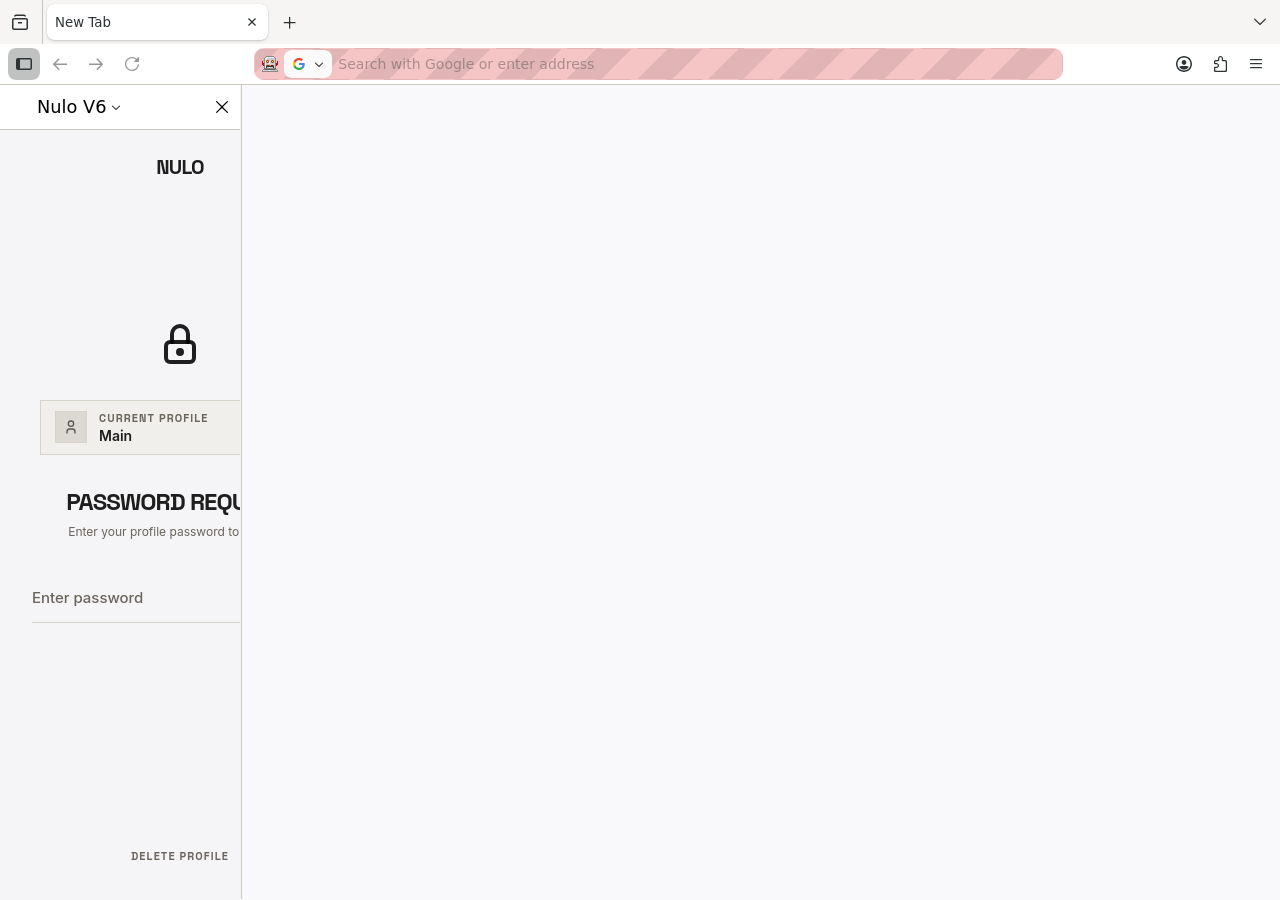
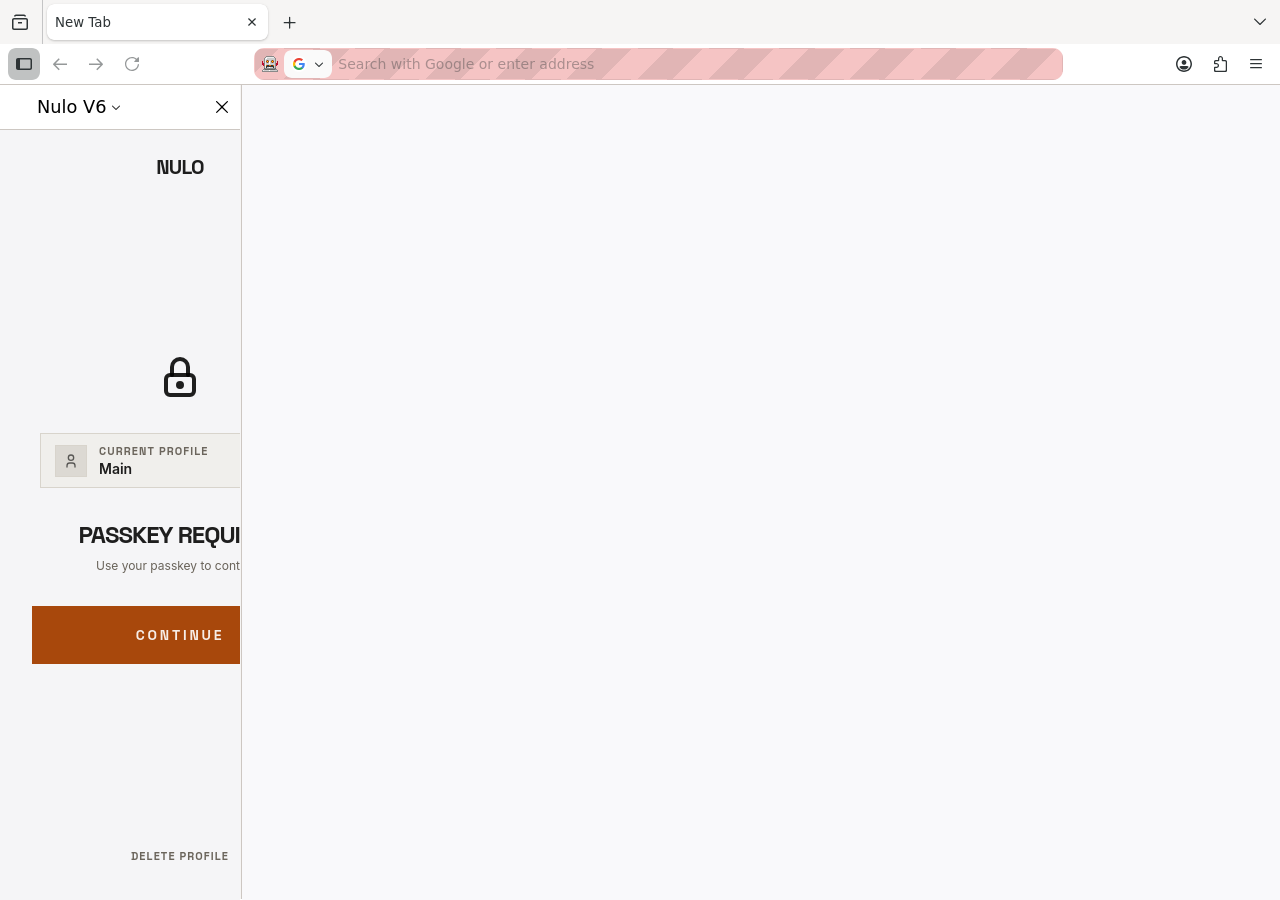
test(e2e): drive both firefox sidebars; report the real failure
A Firefox launch comes up with either the default or the revamped
sidebar, so `openSidebar` takes the kind and sets it before opening,
once the controller's rebuild has run, and the scenario runs on both.
`chromeActions` keeps the actions' own error when releasing them fails
too, `openSidebar` reports a refused open, and `clickInSidebar` refuses
a zoomed sidebar whose coordinates would miss.

Changed region(s): [[0.0, 0.3422, 0.1875, 0.7467]]

diff --git a/apps/extension/tests/e2e/fixtures/browser/firefox-sidebar.ts b/apps/extension/tests/e2e/fixtures/browser/firefox-sidebar.ts
@@ -25,23 +25,39 @@ const LOCATE_SIDEBAR = `
 	const origin = "moz-extension://" + WebExtensionPolicy.getByID(addonId).mozExtensionHostname + "/";
 	return host?.currentURI?.spec.startsWith(origin) ? host : null;`
 
-/** Opens the add-on's sidebar, as `sidebarAction.open()` does, and resolves once its document is loaded. */
-export async function openSidebar(browser: Browser): Promise<void> {
+/** Which sidebar Firefox draws: the default one, or the revamped one with its launcher, which some
+ *  profiles get on their own. Each lays the page out at its own width. */
+export type SidebarKind = "default" | "revamped"
+
+/**
+ * Opens the add-on's sidebar, as `sidebarAction.open()` does, in the sidebar `kind` names, and resolves
+ * once the add-on's page is the sidebar's document. The kind is set every time: a launch may come up
+ * with either, and a spec that does not choose would drive whichever it got.
+ */
+export async function openSidebar(browser: Browser, kind: SidebarKind): Promise<void> {
 	const { session, addonId } = actionPopupContext(browser)
 	const opened = await session.chromeScript<string>(
 		`
-		const [addonId, done] = arguments;
+		const [addonId, revamped, done] = arguments;
 		const sidebar = () => { ${LOCATE_SIDEBAR} };
+		const controller = window.SidebarController;
 		const { extension } = WebExtensionPolicy.getByID(addonId);
-		extension.apiManager.global.sidebarActionFor(extension).open(window);
 		const started = Date.now();
-		(function poll() {
+		const poll = () => {
 			if (sidebar()?.browsingContext?.currentWindowGlobal) return done("open");
 			if (Date.now() - started > 15000) return done("the sidebar never opened");
 			window.setTimeout(poll, 100);
-		})();
+		};
+		const open = () => {
+			if (controller.sidebarRevampEnabled !== revamped) return done("the sidebar kind did not switch");
+			Promise.resolve(extension.apiManager.global.sidebarActionFor(extension).open(window)).then(poll, (err) => done("open failed: " + err));
+		};
+		// The pref's observer rebuilds the sidebar in a continuation queued behind the controller's
+		// initialisation, so the open waits for that and one task more, after which the rebuild is done.
+		Services.prefs.setBoolPref("sidebar.revamp", revamped);
+		controller.promiseInitialized.then(() => window.setTimeout(open, 0));
 		`,
-		[addonId],
+		[addonId, kind === "revamped"],
 	)
 	if (opened !== "open") throw new Error(`openSidebar: ${opened}`)
 }
@@ -58,24 +74,29 @@ export async function evaluateInSidebar<T>(browser: Browser, body: string): Prom
 
 /**
  * Clicks the centre of the element with `testid` with a real pointer, which also gives the sidebar
- * focus. An element outside the sidebar's view is refused: no person could click it there.
+ * focus. An element outside the sidebar's view is refused: no person could click it there. The
+ * sidebar's coordinates are mapped onto its window's, which holds only while both share one scale.
  */
 export async function clickInSidebar(browser: Browser, testid: string): Promise<void> {
 	const { session } = actionPopupContext(browser)
-	const target = await evaluateInSidebar<{ x: number; y: number; inView: boolean } | null>(
+	const target = await evaluateInSidebar<{ x: number; y: number; scale: number; inView: boolean } | null>(
 		browser,
 		`const el = content.document.querySelector(${JSON.stringify(`[data-testid="${testid}"]`)});
 		if (!el) return null;
 		const rect = el.getBoundingClientRect();
 		const x = rect.left + rect.width / 2;
 		const y = rect.top + rect.height / 2;
-		return { x: content.mozInnerScreenX + x, y: content.mozInnerScreenY + y, inView: x >= 0 && y >= 0 && x < content.innerWidth && y < content.innerHeight };`,
+		return { x: content.mozInnerScreenX + x, y: content.mozInnerScreenY + y, scale: content.devicePixelRatio, inView: x >= 0 && y >= 0 && x < content.innerWidth && y < content.innerHeight };`,
 	)
 	if (!target) throw new Error(`clickInSidebar: no ${testid} in the sidebar`)
 	if (!target.inView) throw new Error(`clickInSidebar: ${testid} is outside the sidebar's view`)
-	const origin = await session.chromeScript<{ x: number; y: number }>(
-		`const [done] = arguments; done({ x: window.mozInnerScreenX, y: window.mozInnerScreenY });`,
+	const origin = await session.chromeScript<{ x: number; y: number; scale: number }>(
+		`const [done] = arguments; done({ x: window.mozInnerScreenX, y: window.mozInnerScreenY, scale: window.devicePixelRatio });`,
 	)
+	if (origin.scale !== target.scale)
+		throw new Error(
+			`clickInSidebar: the sidebar is zoomed (scale ${target.scale}, its window ${origin.scale}), so the click would miss`,
+		)
 	await session.chromeActions([
 		{
 			type: "pointer",

diff --git a/apps/extension/tests/e2e/firefox-sidebar.test.ts b/apps/extension/tests/e2e/firefox-sidebar.test.ts
@@ -2,13 +2,14 @@
  * Firefox's sidebar loads the popup shell as a `sidebar` view, not as the toolbar panel a Mac closes
  * under the OS passkey prompt, so a passkey step started there runs in place. The ceremony needs the
  * sidebar focused, and any privileged read would take that focus: until the session lands, outcomes
- * are read from a control page opened beforehand.
+ * are read from a control page opened beforehand. Both sidebars Firefox draws are driven, since a
+ * profile may come up with either.
  */
 import type { Browser } from "puppeteer"
 import { describe, expect } from "vitest"
 import { FIREFOX_ONLY, isFirefox } from "./fixtures/browser"
 import { inPageRealm, sessionAuthenticator } from "./fixtures/browser/firefox"
-import { clickInSidebar, evaluateInSidebar, openSidebar } from "./fixtures/browser/firefox-sidebar"
+import { clickInSidebar, evaluateInSidebar, openSidebar, type SidebarKind } from "./fixtures/browser/firefox-sidebar"
 import { clickByTestId, openPopup, test, waitForHash } from "./fixtures/extension"
 import { readPasskeySurface, registerPasskeyProfile, watchPasskeySurface } from "./fixtures/passkey"
 import { pollUntil } from "./fixtures/poll"
@@ -30,21 +31,23 @@ const sidebarOn = (browser: Browser, hash: string) =>
 	)
 
 describe.skipIf(!isFirefox)(FIREFOX_ONLY.sidebar, () => {
-	test("a passkey unlock started in the sidebar runs in place", async ({ freshExtensionPerTest: ctx }) => {
-		const { browser } = ctx
-		const control = await openPopup(ctx)
-		const authenticator = await sessionAuthenticator(browser)
-		try {
-			await registerPasskeyProfile(control)
-			const { profile } = await waitForSessionRow(control, () => true)
-			await clickByTestId(control, "header-lock")
-			await waitForHash(control, "#/popup/auth", 15_000)
+	test.for(["default", "revamped"] satisfies SidebarKind[])(
+		"a passkey unlock started in the %s sidebar runs in place",
+		async (kind, { freshExtensionPerTest: ctx }) => {
+			const { browser } = ctx
+			const control = await openPopup(ctx)
+			const authenticator = await sessionAuthenticator(browser)
+			try {
+				await registerPasskeyProfile(control)
+				const { profile } = await waitForSessionRow(control, () => true)
+				await clickByTestId(control, "header-lock")
+				await waitForHash(control, "#/popup/auth", 15_000)
 
-			await openSidebar(browser)
-			await sidebarOn(browser, "#/popup/auth")
-			await evaluateInSidebar(
-				browser,
-				inPageRealm(`
+				await openSidebar(browser, kind)
+				await sidebarOn(browser, "#/popup/auth")
+				await evaluateInSidebar(
+					browser,
+					inPageRealm(`
 					const credentials = navigator.credentials;
 					const get = credentials.get;
 					window.${GETS} = 0;
@@ -52,18 +55,19 @@ describe.skipIf(!isFirefox)(FIREFOX_ONLY.sidebar, () => {
 						window.${GETS}++;
 						return get.call(credentials, options);
 					};`),
-			)
-			expect(await readSessionRow(control)).toBeUndefined()
-			await watchPasskeySurface(control)
+				)
+				expect(await readSessionRow(control)).toBeUndefined()
+				await watchPasskeySurface(control)
 
-			await clickInSidebar(browser, "auth-submit")
-			await waitForSessionRow(control, (row) => row.profile === profile)
-			expect((await readPasskeySurface(control))?.windowsOpened).toBe(0)
+				await clickInSidebar(browser, "auth-submit")
+				await waitForSessionRow(control, (row) => row.profile === profile)
+				expect((await readPasskeySurface(control))?.windowsOpened).toBe(0)
 
-			await sidebarOn(browser, "#/popup/general")
-			expect(await evaluateInSidebar<number>(browser, inPageRealm(`return window.${GETS};`))).toBe(1)
-		} finally {
-			await authenticator.cleanup()
-		}
-	})
+				await sidebarOn(browser, "#/popup/general")
+				expect(await evaluateInSidebar<number>(browser, inPageRealm(`return window.${GETS};`))).toBe(1)
+			} finally {
+				await authenticator.cleanup()
+			}
+		},
+	)
 })

diff --git a/apps/extension/tests/e2e/fixtures/browser/index.ts b/apps/extension/tests/e2e/fixtures/browser/index.ts
@@ -235,7 +235,7 @@ export const FIREFOX_ONLY = {
 	windowRefocus: "refocuses an approval popup; headless Chrome moves focus only by creating a window",
 	toolbarPanel: "drives the toolbar popup itself, which no protocol opens on Chrome",
 	permissionRequest: "withholds and re-grants a required host permission, which Chrome's permissions.remove refuses",
-	sidebar: "drives the sidebar (sidebar_action), which only Firefox has",
+	sidebar: "drives Firefox's sidebar (sidebar_action); Chrome's side panel is another API, which the suite does not open",
 } as const
 
 /** The launch a background call is made against; every `ExtensionContext` is one. */

diff --git a/apps/extension/src/manifest.test.ts b/apps/extension/src/manifest.test.ts
@@ -207,8 +207,8 @@ describe("firefox manifest", () => {
 		expect(permissions).toContain("storage")
 	})
 
-	// The sidebar is Chrome's side panel on Firefox: the same page and the add-on's own icon, and
-	// nothing opened at install.
+	// The sidebar takes its page from the side panel's, so the two surfaces cannot drift apart; one
+	// opened at install would put the wallet beside every new Firefox user's first tab unasked.
 	test("declares a sidebar on the side panel's page, closed at install, on Firefox only", () => {
 		const chrome = chromeFor({ command: "build", mode: "production" })
 		expect(buildFirefox().sidebar_action).toEqual({

diff --git a/apps/extension/tests/e2e/fixtures/browser/firefox.ts b/apps/extension/tests/e2e/fixtures/browser/firefox.ts
@@ -64,7 +64,8 @@ function contextFor(browser: Browser): LaunchContext {
 
 export const classicSessionFor = (browser: Browser): WebDriverSession => contextFor(browser).session
 
-/** What reaching the toolbar popup takes: the privileged channel, and the id Firefox files the add-on under. */
+/** What reaching a document outside every tab (the toolbar popup, the sidebar) takes: the privileged
+ *  channel, and the id Firefox files the add-on under. */
 export const actionPopupContext = (browser: Browser): Pick<LaunchContext, "session" | "addonId"> => contextFor(browser)
 
 /**

diff --git a/apps/extension/tests/e2e/fixtures/browser/webdriver-classic.ts b/apps/extension/tests/e2e/fixtures/browser/webdriver-classic.ts
@@ -143,9 +143,12 @@ export class WebDriverSession {
 				await this.switchToWindow(handle)
 				try {
 					await this.send("POST", "/actions", { actions })
-				} finally {
-					await this.send("DELETE", "/actions")
+				} catch (err) {
+					// Released on the way out, but the actions' own failure is the one to report.
+					await this.send("DELETE", "/actions").catch(() => {})
+					throw err
 				}
+				await this.send("DELETE", "/actions")
 			} finally {
 				await this.send("POST", "/moz/context", { context: "content" })
 			}

diff --git a/apps/extension/tests/e2e/FIREFOX.md b/apps/extension/tests/e2e/FIREFOX.md
@@ -10,7 +10,7 @@ Run it: `NULO_E2E_BROWSER=firefox bun run e2e:agent …` (network; builds `dist/
 
 A fix that reads "on Firefox, also do X" inside a helper is a second, unlisted driver. Put X on the interface, give Chrome its (often empty) implementation, and say why in the doc comment.
 
-The one bounded exception is a surface only Firefox has, the toolbar panel and the sidebar: each is driven by a module of its own under `fixtures/browser/` (`firefox-action-popup.ts`, `firefox-sidebar.ts`), imported only by `FIREFOX_ONLY` specs. Chrome has no counterpart to implement, so nothing goes on the interface.
+The one bounded exception is a browser surface the suite drives on Firefox alone, the toolbar panel and the sidebar, where the behaviour under test is Firefox's own: each is driven by a module of its own under `fixtures/browser/` (`firefox-action-popup.ts`, `firefox-sidebar.ts`), imported only by `FIREFOX_ONLY` specs. There is no Chrome implementation to give, so nothing goes on the interface.
 
 ## How Firefox is driven
 
@@ -43,7 +43,7 @@ A classic window handle and a BiDi browsing-context id are the same string in Fi
 | A window that **closes itself** (every approval window does) produces no `browsingContext.contextDestroyed`. | Puppeteer lists the target, and reports its page open, for the rest of the session. | `watchForSilentCloses` reconciles against the classic handle list and injects the missing event: 2 missed reads for a handle once seen, 8 for one never seen. |
 | The toolbar popup is a **panel**, laid out to find its preferred height: the `height: 100%` chain through `html` and `body` is indefinite there, and `body`'s 600px comes from `min-height` alone. No WebDriver or BiDi command reaches a panel's document, and the suite opens the popup in a window — where none of this happens. | A `100%`-tall child collapses to its content height; the bottom nav, pinned to it, floated mid-popup and moved on every tab. Found by the owner by hand; invisible to the suite. | Fixed in the product (`src/popup/index.scss`: `#app` is `100vh`, definite on every surface). `fixtures/browser/firefox-action-popup.ts` opens the real panel from Firefox's privileged scope (`WebDriverSession.chromeScript`, which needs geckodriver's `--allow-system-access`) and evaluates in it through a frame script; `action-popup-layout.test.ts` holds the nav to the popup's bottom edge on every tab. |
 | On a Mac the toolbar panel **closes as soon as anything else takes focus**, the OS passkey prompt included (Mozilla bug 2026687); **headless Firefox keeps it open**. | A passkey step run in the panel passes headless and is cancelled for every Mac user. | The product runs a passkey step started in the panel in a window of its own (`src/utils/browser-surface.ts`). `armPanelDeath` (`firefox-action-popup.ts`) makes the open panel die the Mac way: a WebAuthn call made in it is recorded, then closes it; a window that opens hides it once that window is the active one, and is kept focused until it closes. `passkey-toolbar-panel.test.ts` drives create, unlock, import, export and restore from the panel. **A privileged call focuses a browser window** (`chromeScript` switches to the first one), so a passkey prompt starting in another window at that moment is refused: while a passkey window is up, read the outcome from a page opened beforehand, never from the panel. |
-| The sidebar (`sidebar_action`) holds its page in a content browser that belongs to **no tab**: BiDi has no navigable for it and classic no frame to switch into. **Every privileged call takes its focus**: Marionette's window switch, which `chromeScript` and `chromeActions` make first, focuses the selected tab, and WebAuthn needs the sidebar focused. | A read through `chromeScript` finds `hasFocus()` false and a passkey step refused (`NotAllowedError`), though a person's sidebar runs it. Keys sent in a call after the click that focused the field go to the tab. | `fixtures/browser/firefox-sidebar.ts` opens and reads the sidebar from privileged scope and clicks in it with chrome-context pointer actions (`chromeActions`); an input and the step it starts go in one call, and an outcome reached while the sidebar must keep focus is read from a page opened beforehand. `firefox-sidebar.test.ts` drives a passkey unlock started there. |
+| The sidebar (`sidebar_action`) holds its page in a content browser that belongs to **no tab**, and a profile can come up with either the default sidebar (240–252 px wide) or the revamped one (340 px): BiDi has no navigable for it and classic no frame to switch into. **Every privileged call takes its focus**: Marionette's window switch, which `chromeScript` and `chromeActions` make first, focuses the selected tab, and WebAuthn needs the sidebar focused. | A read through `chromeScript` finds `hasFocus()` false and a passkey step refused (`NotAllowedError`), though a person's sidebar runs it. Keys sent in a call after the click that focused the field go to the tab. | `fixtures/browser/firefox-sidebar.ts` opens the sidebar kind a spec names, and reads it from privileged scope and clicks in it with chrome-context pointer actions (`chromeActions`); an input and the step it starts go in one call, and an outcome reached while the sidebar must keep focus is read from a page opened beforehand. `firefox-sidebar.test.ts` drives a passkey unlock started there. |
 | A window is born `about:blank`, and for an **add-on page Firefox sends no `domContentLoaded` or `load`**: only `navigationStarted` and `navigationCommitted` carry its URL, and Puppeteer (25.8.0) takes a page's URL only from `domContentLoaded`, `load`, a history change or a fragment navigation. Nothing re-announces the target once its URL changes. | An extension window read `about:blank` in `targets()` until its own script wrote history (the router's first redirect, 0.3-0.5 s after the commit), and for good when it never did: a page whose modules failed to load, or a `text/plain` tab such as the licences file. `waitForTarget` then timed out on a window that was open. `browser.waitForTarget(url predicate)` never matches at all. | The shim hands Puppeteer a `historyUpdated` with the committed URL after an add-on page's commit in a top-level context it saw announced and still holds open (`trackContexts` in `bidi-attach.ts`), the counterpart of the `contextDestroyed` it supplies; the seam's `waitForTarget` polls `targets()`. When that wait fails, its error lists Firefox's own window handles (BiDi context ids) beside BiDi's open contexts, Puppeteer's pages and the windows the close watch reported closed: one report tells a window never announced, one listed on another URL and one closed by the watch apart. It switches no window and runs nothing privileged, since a caller may let a wait expire and keep going and either would move focus; the relay's latest exceptions, each with its context and its first frame in the add-on's code (else the add-on location Firefox reports, else its top frame), print at the launch's close instead. |
 | A **new tab can go unannounced** over BiDi. Firefox announces a tab only through its first browsing context, once it has seen that context's document (polled every 10 ms for up to 100 ms), sends nothing when the context is discarded first, and filters out the context that replaces it (`#onContextAttached` in `webdriver-bidi/modules/root/browsingContext.sys.mjs`). The tab a link on an extension page opens with a modified click was replaced 9–25 ms after it opened in a probe; a `windows.create` window kept its first context 50–70 ms. | The tab opens, but `targets()` never lists it: the wait times out and the tab outlives the test. CI runners lost 4 of 6 attempts at the contact row's Ctrl-click; no local run lost one, even pinned to one busy CPU. | `waitForNewTab` diffs the classic handle list, which names every tab, and closes the tab it found by handle from Firefox's own scope, then waits until the list no longer names it. A spec that waits in `targets()` for a tab the wallet opens with `tabs.create` (`onboarding-tab.test.ts`) depends on the same announcement, with no failure seen. |
 | WebDriver BiDi sends **no `log.entryAdded` for an extension page**: `isBrowsingContextCompatible` skips a context whose own principal is an add-on's "until we support debugging webextensions" (Bug 1755014). | Puppeteer's `pageerror` and `console` never fire for a `moz-extension://` page, so the fixtures' `pageErrors` and `consoleErrors` stay empty and every assertion on them checks nothing. | `firefox-page-errors.ts`, armed at launch before the add-on is installed. A process script in every content process sends each error-level message of the add-on's own frames, tagged with its top-level context, to the parent; a relay there emits it on the BiDi session geckodriver opened as the entry Firefox builds for a web page. Chrome's split decides the array: an exception is a `pageerror`, any other error-level message, a native `console.error` included, a `console` error. It calls two Firefox internals, `_onMessageHandlerProtocolEvent` on the BiDi session and `NavigableManager.getIdForBrowsingContext`: the launch fails when either is gone, and its `close()` fails when the relay faulted or an extension process of the launch ran without the listener. Proved on Firefox 153.0.4 with puppeteer-core 25.8.0 by `page-error-capture.test.ts`, on both browsers. **A Firefox bump whose arming check or capture test fails is a hold on the bump**, never a `skipIf`, a soft-fail or a removed assertion. An error that carries no saved stack gets the one location it reports as its only frame. Each launch prints one `unsafe filename: data:…` error on stderr: the parent process refuses the listener's `data:` script, which only content processes need. Still outside the arrays on Firefox: a message with no window (`Unchecked lastError`, window id 0 in every process), and a failed resource load, which Firefox never reports against the page's window (Chrome reports it as a `console` error). An unhandled rejection arrives when Firefox finds it unhandled, a task or more after the page dropped it, as it does for a web page. The close check reads the relay with nothing ordering it after a content process's last message, so a listener fault in the launch's final moments can land after the read. |

diff --git a/implementations-plan/firefox-sidebar-1/plan.md b/implementations-plan/firefox-sidebar-1/plan.md
@@ -121,10 +121,10 @@ Nothing else changes: the predicate already runs the step in place (Fact 2), and
   - it reuses `actionPopupContext` for the session and add-on id, and `evaluateViaFrameScript`.
 - `fixtures/browser/index.ts`: `FIREFOX_ONLY.sidebar`.
 
-**e2e spec** `tests/e2e/firefox-sidebar.test.ts`, one scenario under `describe.skipIf(!isFirefox)(FIREFOX_ONLY.sidebar, …)`:
+**e2e spec** `tests/e2e/firefox-sidebar.test.ts`, one scenario per sidebar kind (D8) under `describe.skipIf(!isFirefox)(FIREFOX_ONLY.sidebar, …)`:
 - Steps:
   1. Register a passkey profile in a control popup (`registerPasskeyProfile`, `sessionAuthenticator`), note its session's profile, then lock it.
-  2. Open the sidebar, wait for its lock screen, and start counting `navigator.credentials.get` calls in the sidebar page's own realm (`inPageRealm`, as `armPanelDeath` counts the panel's).
+  2. Open the sidebar of the named kind, wait for its lock screen, and start counting `navigator.credentials.get` calls in the sidebar page's own realm (`inPageRealm`, as `armPanelDeath` counts the panel's).
   3. On the control page, assert there is no session row, then start `watchPasskeySurface` (`fixtures/passkey.ts`), whose `chrome.windows.onCreated` counter records every window Firefox opens, whichever API or context opens it, even one that opens and closes between two reads.
   4. Click Continue in the sidebar (`clickInSidebar`).
   5. Read only through the control page: `waitForSessionRow` sees the noted profile's session (the success control), and `readPasskeySurface` counts no window (the never-happens check).
@@ -135,7 +135,7 @@ Nothing else changes: the predicate already runs the step in place (Fact 2), and
   - a manifest that stops declaring the sidebar;
   - a Firefox that stops allowing WebAuthn in a focused sidebar.
 - **Why no cheaper layer**: view types and WebAuthn's focus rule exist only in a real Firefox.
-- **Estimate**: 25 s. The spike's passkey case, setup included and with three extra WebAuthn probes, measured 19.3–21.7 s headless (runs 2–4).
+- **Estimate**: 25 s. The spike's passkey case, setup included and with three extra WebAuthn probes, measured 19.3–21.7 s headless (runs 2–4). Measured in arc 1: 15.8–20.7 s for the default sidebar, 13.1–15.4 s for the revamped one (`lessons/phase-2.md`).
 
 **Pins**: `src/manifest.test.ts` adds one case. Firefox's `sidebar_action.default_panel` equals Chrome's `side_panel.default_path`, `open_at_install` is false, and Chrome's build has no `sidebar_action`.
 
@@ -166,6 +166,7 @@ Nothing else changes: the predicate already runs the step in place (Fact 2), and
 - **D5, the issues.** The PR says `Closes #596`. When the PR opens, #593 gets a comment: the sidebar runs the step in place; the panel's window stays as the owner decided; #593 stays closed.
 - **D6, no `closeSidebar`** (arc 1, a deviation). No spec closes the sidebar, since the launch is torn down with it, so the module exports `openSidebar`, `evaluateInSidebar` and `clickInSidebar` only.
 - **D7, `default_icon`** (arc 1, a correction). The first pictures showed Firefox's generic puzzle piece for Nulo in the revamped launcher: with no `default_icon`, `IconDetails` falls back to its default icon, not the manifest's `icons`, so Fact 3 was wrong. The key now names the add-on's own icons, which is what § UI impact promised ("its name and icon"). The pin covers it.
+- **D8, both sidebars driven** (arc 1, from the Opus review). A launch comes up with either sidebar (Phase 0 run 7 and the first pictures got the revamped one unasked), so a spec that does not choose drives whichever it gets, and a regression in one would read as a flake. `openSidebar` takes the kind and sets `sidebar.revamp` before opening, and the scenario runs once per kind (`test.for`). The revamped sidebar is its own Firefox code path (launcher, panel header, width), which is the second scenario's failure mode; it costs 13–15 s.
 
 ## Security & Adversarial Considerations
 
@@ -187,7 +188,7 @@ Nothing else changes: the predicate already runs the step in place (Fact 2), and
   - A passkey step started there runs in place.
   - **At the width Firefox opens it, the shell is clipped.** The page keeps its 360 px width and scrolls sideways. In the old sidebar (240–252 px) about a third of the page is cut until the person widens the sidebar or scrolls: the network badge and Lock, half of Receive, the end of the balance, and the Settings tab (`screenshots/sidebar-home-opening-width.png`). In the revamped sidebar (340 px) every control shows, and the page still scrolls 20 px. This is named here for the owner's look (OA-2), and the arc does not change the layout.
   - P28-08's condition, "be sure that the "side-panel" option can be really tested", is met by the spike (§ Phase 0).
-  - Pictures, taken headful, in [`screenshots/`](screenshots/): the lock screen and Home in the old sidebar at its opening width, with the clipping visible (`sidebar-lock-opening-width.png`, `sidebar-home-opening-width.png`); Home in the revamped sidebar at 340 px, with Nulo's icon in its launcher (`revamped-sidebar-home.png`); Home at 420 px, light and dark (`sidebar-home-420.png`, `sidebar-home-420-dark.png`).
+  - Pictures, taken headful, in [`screenshots/`](screenshots/): the passkey lock screen and Home in the old sidebar at its opening width, with the clipping visible (`sidebar-lock-opening-width.png`, `sidebar-home-opening-width.png`); Home in the revamped sidebar at 340 px, with Nulo's icon in its launcher (`revamped-sidebar-home.png`); Home at 420 px, light and dark (`sidebar-home-420.png`, `sidebar-home-420-dark.png`).
 - **At install** no sidebar opens, but Firefox lists Nulo in View → Sidebar and in the sidebar's switcher. With the revamped sidebar, it also adds Nulo's icon to the launcher's tools until the person removes it (`browser-sidebar.js` `registerExtension`). This is pictured.
 - **Unchanged**: the toolbar popup and its passkey window, Settings → Display (no row on Firefox), and the Chrome side panel.
 
@@ -270,6 +271,8 @@ The contract is this plan plus [`implementations-plan/README.md` § Post-impleme
 | 2 | Codex, resumed | conditional approve | 1, poll the sidebar after the session (step 6); 2, the window recorder: `watchPasskeySurface`, no session before the click, a one-off forced-window run must fail; 3, the clipping named in UI impact and owner-gated (OA-2, Delivery); 4, the native-surface exception written into FIREFOX.md; 5, OA-4 answered before the PR leaves draft, and the Known limits line names every accepted OA | none |
 | 2 | Opus 5.5 lens | conditional approve | 1, the revamped sidebar (runs 6a, 6b; I2 rewritten; pictures headful, both sidebars); 2, leaving draft needs the owner's quoted sign-off; 3, the locator held to the driver's window; 4, the 0b evidence stated as it stands (runs 1–6, the click row qualified by width); 5, the success control: the noted profile and exactly one `get` in the sidebar; 6, the install-time launcher and menu entries in UI impact, pictured; 7, OA-4 listed in the PR body; 8, the seed's command | none |
 | final | Codex, fresh session | conditional approve, then approve on resume | 1, the full Firefox network suite in Phase 4; 2, Phase 3's gate takes only whole-window pictures; 3, each browser's smoke wall-clock in the PR body | none |
+| arc 1, loop 1 | Codex, gpt-6.1-sol | approve | 1, a click mapped across different scales (the sidebar zoomed): `clickInSidebar` refuses it by name | 2, readiness markers are not testids: they are the suite's readiness convention (`fixtures/wallet-pages.ts`), not a selection |
+| arc 1, loop 1 | Opus 5.5, diff review | request changes | 1, the sidebar kind pinned and both driven (D8); 2, the lock picture retaken on a passkey profile, the password screen's button shown to be disabled, not missing; 3, folded into Codex 1; 4, `chromeActions` reports the actions' own error; 5, `openSidebar` reports a refused open and says what it waits for; 6, the context's doc, FIREFOX.md's exception wording, the manifest pin's comment | 7, the `get` counter counts calls, not successes: no retrying fallback exists, recorded as a limit of the check |
 
 ## Seeds
 

diff --git a/implementations-plan/firefox-sidebar-1/lessons/phase-2.md b/implementations-plan/firefox-sidebar-1/lessons/phase-2.md
@@ -11,3 +11,12 @@ Firefox 153.0.4, geckodriver 0.37.1, at the arc branch after merging `origin/dev
 | — | `scripts/e2e/browser-seam.test.ts`, `scripts/e2e/firefox-driver.test.ts` | 102 of 102 pass. |
 
 Deviation: `closeSidebar` is not added. No spec closes the sidebar (the launch is torn down with it), and an unused export is dead code.
+
+## After the first review round
+
+| Run | What | Outcome |
+|---|---|---|
+| 7–9 | The scenario per sidebar kind, the revamp pref set and the open issued at once | Default passes 3 of 3; revamped fails 3 of 3, `openSidebar: the sidebar never opened`. The pref's observer rebuilds the sidebar in `toggleRevampSidebar`, a continuation queued behind `promiseInitialized`, so the open ran before the rebuild and the rebuild undid it. |
+| 10–12 | The open issued after `promiseInitialized` and one task more | Both pass 3 of 3: default 16.4, 15.8, 20.7 s; revamped 13.1, 13.4, 15.4 s. |
+
+The page-realm `get` counter counts calls, not successes: a future fallback that retried a refused sidebar call in a tab could still read one. No such fallback exists (a known limit of the check, from the Opus review).

diff --git a/implementations-plan/firefox-sidebar-1/lessons/phase-3.md b/implementations-plan/firefox-sidebar-1/lessons/phase-3.md
@@ -6,3 +6,4 @@ A scratch spec (deleted after) on the smoke fixtures, headful under Xvfb (`HEADL
 |---|---|
 | 1 | Six PNGs. The launch came up with `sidebar.revamp` true (run 5 of Phase 0 had it false), so the "default" shots showed the revamped sidebar, and Nulo's launcher entry was the generic puzzle piece. With no `default_icon`, Firefox's `IconDetails` returns its default icon, not the manifest's `icons`: Fact 3 was wrong (D7). |
 | 2 | `default_icon` names the add-on's icons; each test sets `sidebar.revamp` explicitly. Five PNGs: the old sidebar at 240 px (lock, Home), at 420 px (Home light, dark), and the revamped sidebar at 340 px (Home, Nulo's icon in the launcher). At 240 px about a third of the page is cut (OA-2). |
+| 3 | From the Opus review: the password lock picture showed no Continue under the field. In the sidebar the button is there, disabled at opacity 0.3 until a password is typed, the same computed state the popup has, so nothing is missing. The lock picture is retaken on a passkey profile, the screen this work is for: at 240 px its title and Continue are cut. |
